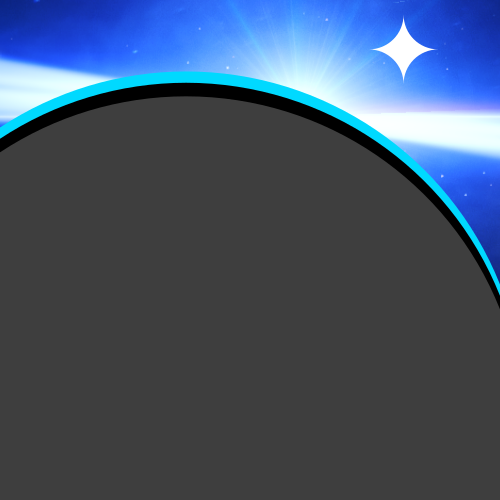
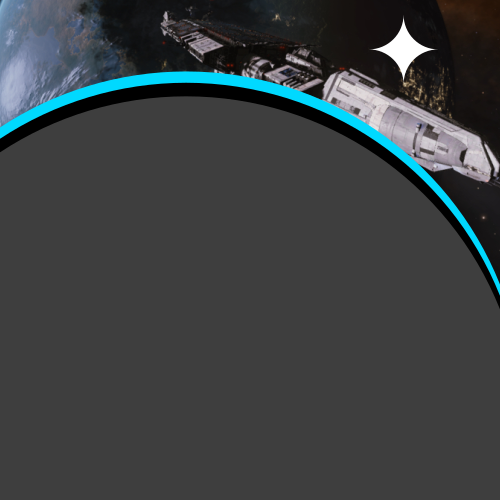
Various
Added image for Nostradamus and changed image for Atlas
Added demand and pad size to generator

Changed region(s): [[0.0, 0.0, 1.0, 0.57]]

diff --git a/MissionAlertBot.py b/MissionAlertBot.py
@@ -123,7 +123,7 @@ def defget_datetime():
     dt_string = dt_now.strftime("%d %B" + " 3307" + " %H:%M")
 
 # function to create image for loading
-def defcreateimage_load(carriername, carrierreg, commodity, system, station, profit):
+def defcreateimage_load(carriername, carrierreg, commodity, system, station, profit, pads, demand):
     my_image = Image.open(f"images/{shortname}.png")
     image_editable = ImageDraw.Draw(my_image)
     image_editable.text((27,150), "PILOTS TRADE NETWORK", (255, 255, 255), font=title_font)
@@ -135,13 +135,13 @@ def defcreateimage_load(carriername, carrierreg, commodity, system, station, pro
     image_editable.text((27,370), "SYSTEM:", (255, 255, 255), font=field_font)
     image_editable.text((170,370), system.upper(), (255, 255, 255), font=normal_font)
     image_editable.text((27,410), "STATION:", (255, 255, 255), font=field_font)
-    image_editable.text((170,410), station.upper(), (255, 255, 255), font=normal_font)
+    image_editable.text((170,410), f"{station.upper()} ({pads.upper()} pads)", (255, 255, 255), font=normal_font)
     image_editable.text((27,450), "PROFIT:", (255, 255, 255), font=field_font)
     image_editable.text((170,450), profit + "k per unit", (255, 255, 255), font=normal_font)
     my_image.save("result.png")
 
 # function to create image for unloading
-def defcreateimage_unload(carriername, carrierreg, commodity, system, station, profit):
+def defcreateimage_unload(carriername, carrierreg, commodity, system, station, profit, pads, demand):
     my_image = Image.open(f"images/{shortname}.png")
     image_editable = ImageDraw.Draw(my_image)
     image_editable.text((27,150), "PILOTS TRADE NETWORK", (255, 255, 255), font=title_font)
@@ -153,7 +153,7 @@ def defcreateimage_unload(carriername, carrierreg, commodity, system, station, p
     image_editable.text((27,370), "SYSTEM:", (255, 255, 255), font=field_font)
     image_editable.text((170,370), system.upper(), (255, 255, 255), font=normal_font)
     image_editable.text((27,410), "STATION:", (255, 255, 255), font=field_font)
-    image_editable.text((170,410), station.upper(), (255, 255, 255), font=normal_font)
+    image_editable.text((170,410), f"{station.upper()} ({pads.upper()} pads)", (255, 255, 255), font=normal_font)
     image_editable.text((27,450), "PROFIT:", (255, 255, 255), font=field_font)
     image_editable.text((170,450), profit + "k per unit", (255, 255, 255), font=normal_font)
     my_image.save("result.png")
@@ -182,25 +182,27 @@ async def on_ready():
                                '<system> should be in quotes\n'
                                '<station> should also be in quotes\n'
                                '<profit> is a number of thousands without the k\n'
+                               '<pads> is the largest pad size available (M for outposts, L for everything else)'
+                               '<demand> is how much your carrier is buying'
                                '\n'
                                'Case is automatically corrected for all inputs.')
 @commands.has_role('Carrier Owner')
-async def load(ctx, lookname, commshort, system, station, profit):
+async def load(ctx, lookname, commshort, system, station, profit, pads, demand):
     defcomm_find(commshort)
     defcarrier_findlong(lookname)
-    defcreateimage_load(longname, cid, commodity, system, station, profit)
+    defcreateimage_load(longname, cid, commodity, system, station, profit, pads, demand)
     defget_datetime()
 
     embed=discord.Embed(title="Generating and fetching mission alerts...", color=0x80ff80)
     await ctx.send(embed=embed)
 
-    embed=discord.Embed(title="Trade Alert (Discord)", description=f"`#{discordchannel} loading {commodity} from **{station.upper()}** station in system **{system.upper()}**, {profit}k per unit profit`", color=0x80ffff)
+    embed=discord.Embed(title="Trade Alert (Discord)", description=f"`#{discordchannel} loading {commodity} from **{station.upper()}** station in system **{system.upper()}** : {profit}k per unit profit : {demand} demand : {pads.upper()}-pads.`", color=0x80ffff)
     await ctx.send(embed=embed)
 
     embed=discord.Embed(title="Reddit Post Title", description=f"`*** P.T.N. News - Trade mission - {longname} {cid} - {dt_string} ***`", color=0xff0000)
     await ctx.send(embed=embed)
 
-    embed=discord.Embed(title="Reddit Post Body - PASTE INTO MARKDOWN MODE", description=f"`    INCOMING WIDEBAND TRANSMISSION: P.T.N. CARRIER LOADING MISSION IN PROGRESS\n\n**BUY FROM**: station **{station.upper()}** in system **{system.upper()}**\n\n**COMMODITY**: {commodity}\n\n&#x200B;\n\n**SELL TO**: Fleet Carrier **{longname} {cid}**\n\n**PROFIT**: {profit}k/unit\n\n\n\n[Join us on Discord](https://www.reddit.com/r/PilotsTradeNetwork/comments/l0y7dk/pilots_trade_network_intergalactic_discord_server/) for mission updates and discussion, channel **#{discordchannel}**.`", color=0x800000)
+    embed=discord.Embed(title="Reddit Post Body - PASTE INTO MARKDOWN MODE", description=f"`    INCOMING WIDEBAND TRANSMISSION: P.T.N. CARRIER LOADING MISSION IN PROGRESS\n\n**BUY FROM**: station **{station.upper()}** in system **{system.upper()}** ({pads}-pads)\n\n**COMMODITY**: {commodity}\n\n&#x200B;\n\n**SELL TO**: Fleet Carrier **{longname} {cid}**\n\n**PROFIT**: {profit}k/unit : {demand} demand\n\n\n\n[Join us on Discord](https://www.reddit.com/r/PilotsTradeNetwork/comments/l0y7dk/pilots_trade_network_intergalactic_discord_server/) for mission updates and discussion, channel **#{discordchannel}**.`", color=0x800000)
     embed.set_footer(text="**REMEMBER TO USE MARKDOWN MODE WHEN PASTING TEXT TO REDDIT.**")
     await ctx.send(embed=embed)
 
@@ -221,25 +223,27 @@ async def load(ctx, lookname, commshort, system, station, profit):
                                  '<system> should be in quotes\n'
                                  '<station> should also be in quotes\n'
                                  '<profit> is a number of thousands without the k\n'
+                                 '<pads> is the largest pad size available (M for outposts, L for everything else)'
+                                 '<demand> is how much your carrier is buying'
                                  '\n'
                                  'Case is automatically corrected for all inputs.')
 @commands.has_role('Carrier Owner')
-async def unload(ctx, lookname, commshort, system, station, profit):
+async def unload(ctx, lookname, commshort, system, station, profit, pads, demand):
     defcomm_find(commshort)
     defcarrier_findlong(lookname)
-    defcreateimage_unload(longname, cid, commodity, system, station, profit)
+    defcreateimage_unload(longname, cid, commodity, system, station, profit, pads, demand)
     defget_datetime()
 
     embed=discord.Embed(title="Generating and fetching mission alerts...", color=0x80ff80)
     await ctx.send(embed=embed)
   
-    embed=discord.Embed(title="Trade Alert (Discord)", description=f"`#{discordchannel} unloading {commodity} to **{station.upper()}** station in system **{system.upper()}**, {profit}k per unit profit`", color=0x80ffff)
+    embed=discord.Embed(title="Trade Alert (Discord)", description=f"`#{discordchannel} unloading {commodity} to **{station.upper()}** station in system **{system.upper()}** : {profit}k per unit profit : {demand} supply : {pads.upper()}-pads.`", color=0x80ffff)
     await ctx.send(embed=embed)
 
     embed=discord.Embed(title="Reddit Post Title", description=f"`*** P.T.N. News - Trade mission - {longname} {cid} - {dt_string} ***`", color=0xff0000)
     await ctx.send(embed=embed)
 
-    embed=discord.Embed(title="Reddit Post Body - PASTE INTO MARKDOWN MODE", description=f"`    INCOMING WIDEBAND TRANSMISSION: P.T.N. CARRIER UNLOADING MISSION IN PROGRESS\n\n**BUY FROM**: Fleet Carrier **{longname} {cid}**\n\n**COMMODITY**: {commodity}\n\n&#x200B;\n\n**SELL TO**: station **{station.upper()}** in system **{system.upper()}**\n\n**PROFIT**: {profit}k/unit\n\n\n\n[Join us on Discord](https://www.reddit.com/r/PilotsTradeNetwork/comments/l0y7dk/pilots_trade_network_intergalactic_discord_server/) for mission updates and discussion, channel **#{discordchannel}**.`", color=0x800000)
+    embed=discord.Embed(title="Reddit Post Body - PASTE INTO MARKDOWN MODE", description=f"`    INCOMING WIDEBAND TRANSMISSION: P.T.N. CARRIER UNLOADING MISSION IN PROGRESS\n\n**BUY FROM**: Fleet Carrier **{longname} {cid}**\n\n**COMMODITY**: {commodity}\n\n&#x200B;\n\n**SELL TO**: station **{station.upper()}** in system **{system.upper()}** ({pads}-pads)\n\n**PROFIT**: {profit}k/unit  : {demand} supply\n\n\n\n[Join us on Discord](https://www.reddit.com/r/PilotsTradeNetwork/comments/l0y7dk/pilots_trade_network_intergalactic_discord_server/) for mission updates and discussion, channel **#{discordchannel}**.`", color=0x800000)
     embed.set_footer(text="**REMEMBER TO USE MARKDOWN MODE WHEN PASTING TEXT TO REDDIT.**")
     await ctx.send(embed=embed)
 
@@ -260,8 +264,8 @@ async def unload(ctx, lookname, commshort, system, station, profit):
 # load direct to channel
 @bot.command(name='loadsend', help='Generate loading mission and send directly to Discord.')
 @commands.has_role('Carrier Owner')
-async def loadsend(ctx, lookname, commshort, system, station, profit):
-    await load(ctx, lookname, commshort, system, station, profit)
+async def loadsend(ctx, lookname, commshort, system, station, profit, pads, demand):
+    await load(ctx, lookname, commshort, system, station, profit, pads, demand)
 
     # check they're happy with output
     await ctx.send('**> Proceed with broadcast to Discord channels? y / n**')
@@ -283,8 +287,9 @@ async def loadsend(ctx, lookname, commshort, system, station, profit):
             channel = bot.get_channel(801798469189763073)
             #channel = bot.get_channel(823541666157166592)
             #  - this is for McKee's test server
-            embed=discord.Embed(title=f"{longname} TRADE ALERT", description=f'<#{channel_id}> loading {commodity} from **{station.upper()}** station in system **{system.upper()}**, {profit}k per unit profit', color=0x80ffff)
-            embed.set_footer(text="Add a reaction to show you're working this mission! React with 💯 if loading is complete.")
+            #embed=discord.Embed(title=f"{longname} TRADE ALERT", description=f'<#{channel_id}> loading {commodity} from **{station.upper()}** station in system **{system.upper()}**, {profit}k per unit profit', color=0x80ffff)
+            embed=discord.Embed(description=f'<#{channel_id}> loading {commodity} from **{station.upper()}** station in system **{system.upper()}**, {profit}k per unit profit', color=0x80ffff)
+            #embed.set_footer(text="Add a reaction to show you're working this mission! React with 💯 if loading is complete.")
             await channel.send(embed=embed)
             embed=discord.Embed(title=f"Trade alerts sent for {longname}", description=f"Check <#801798469189763073> for trade alert and <#{channel_id}> for image.", color=0x80ff80)
             await ctx.send(embed=embed)
@@ -298,8 +303,8 @@ async def loadsend(ctx, lookname, commshort, system, station, profit):
 # unload direct to channel
 @bot.command(name='unloadsend', help='Generate unloading mission and send directly to Discord.')
 @commands.has_role('Carrier Owner')
-async def unloadsend(ctx, lookname, commshort, system, station, profit):
-    await unload(ctx, lookname, commshort, system, station, profit)
+async def unloadsend(ctx, lookname, commshort, system, station, profit, pads, demand):
+    await unload(ctx, lookname, commshort, system, station, profit, pads, demand)
 
     # check they're happy with output
     await ctx.send('**> Proceed with broadcast to Discord channels? y / n**')
@@ -316,11 +321,11 @@ async def unloadsend(ctx, lookname, commshort, system, station, profit):
             channel = discord.utils.get(ctx.guild.channels, name=discordchannel)
             channel_id = channel.id
             await channel.send(file=discord.File('result.png'))
-            
+
             # send trade alert to trade alerts channel
             channel = bot.get_channel(801798469189763073)
-            embed=discord.Embed(title=f"{longname} TRADE ALERT", description=f'<#{channel_id}> unloading {commodity} to **{station.upper()}** station in system **{system.upper()}**, {profit}k per unit profit', color=0x80ff80)
-            embed.set_footer(text="Add a reaction to show you're working this mission! React with 💯 if unloading is complete.")
+            embed=discord.Embed(description=f'<#{channel_id}> unloading {commodity} to **{station.upper()}** station in system **{system.upper()}**, {profit}k per unit profit', color=0x80ff80)
+            #embed.set_footer(text="Add a reaction to show you're working this mission! React with 💯 if unloading is complete.")
             await channel.send(embed=embed)
             embed=discord.Embed(title=f"Trade alerts sent for {longname}", description=f"Check <#801798469189763073> for trade alert and <#{channel_id}> for image.", color=0x80ff80)
             await ctx.send(embed=embed)
